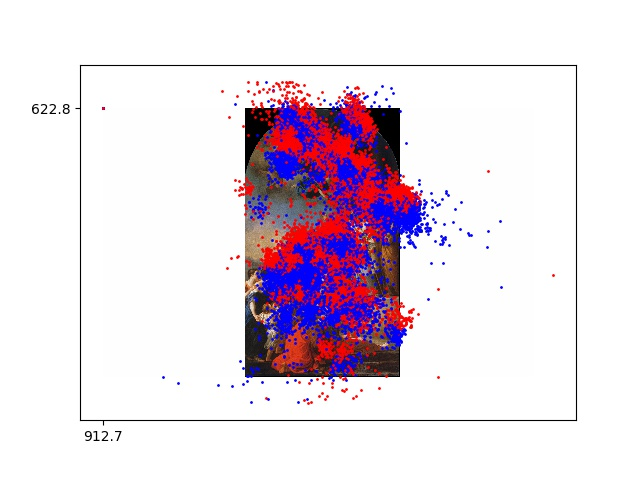
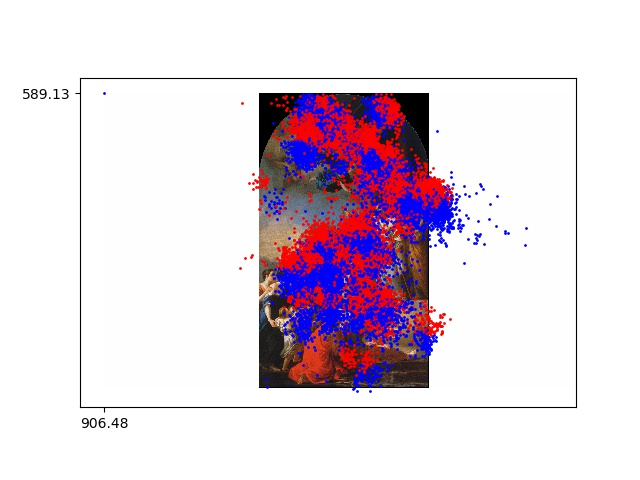
use valid data

diff --git a/EMVP-ws1718-practical1/submission/ivt.py b/EMVP-ws1718-practical1/submission/ivt.py
@@ -86,7 +86,7 @@ def main():
 
     # Show data points on image
     image_name = 'stimuli.jpg'
-    plot_points(image_name, datalist)
+    plot_points(image_name, erased)
 
     # Exercise 3 - IVT
     velocity_threshold = 8250  # TODO Macht das Sinn? Irgendwie kommen da nur so große abstände raus

diff --git a/EMVP-ws1718-practical1/submission/idt.py b/EMVP-ws1718-practical1/submission/idt.py
@@ -69,7 +69,7 @@ def main():
 
     # Show data points on image
     image_name = 'stimuli.jpg'
-    plot_points(image_name, datalist)
+    plot_points(image_name, erased)
 
     # Exercise 3 - IDT
     dispersion_threshold = 100
